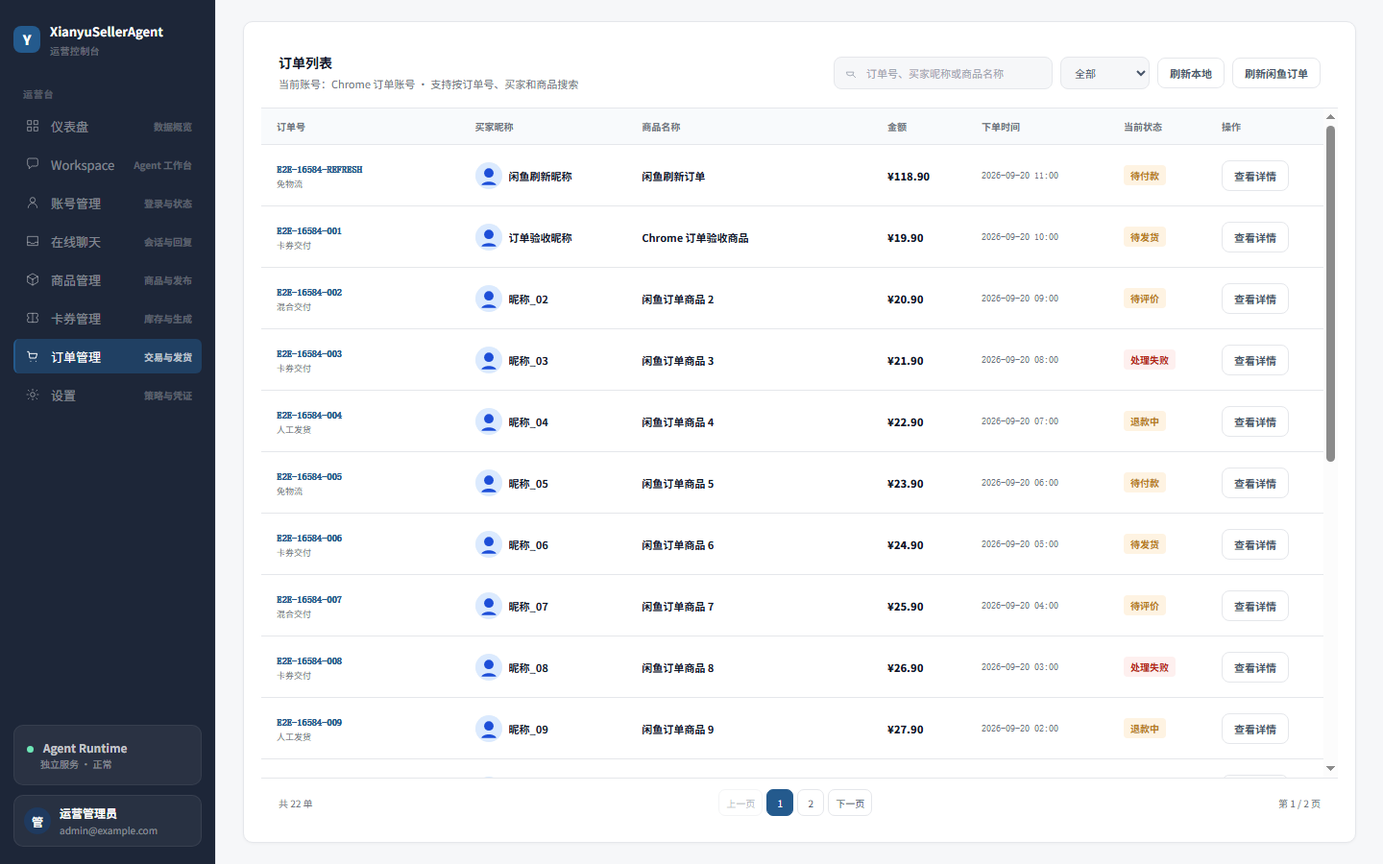
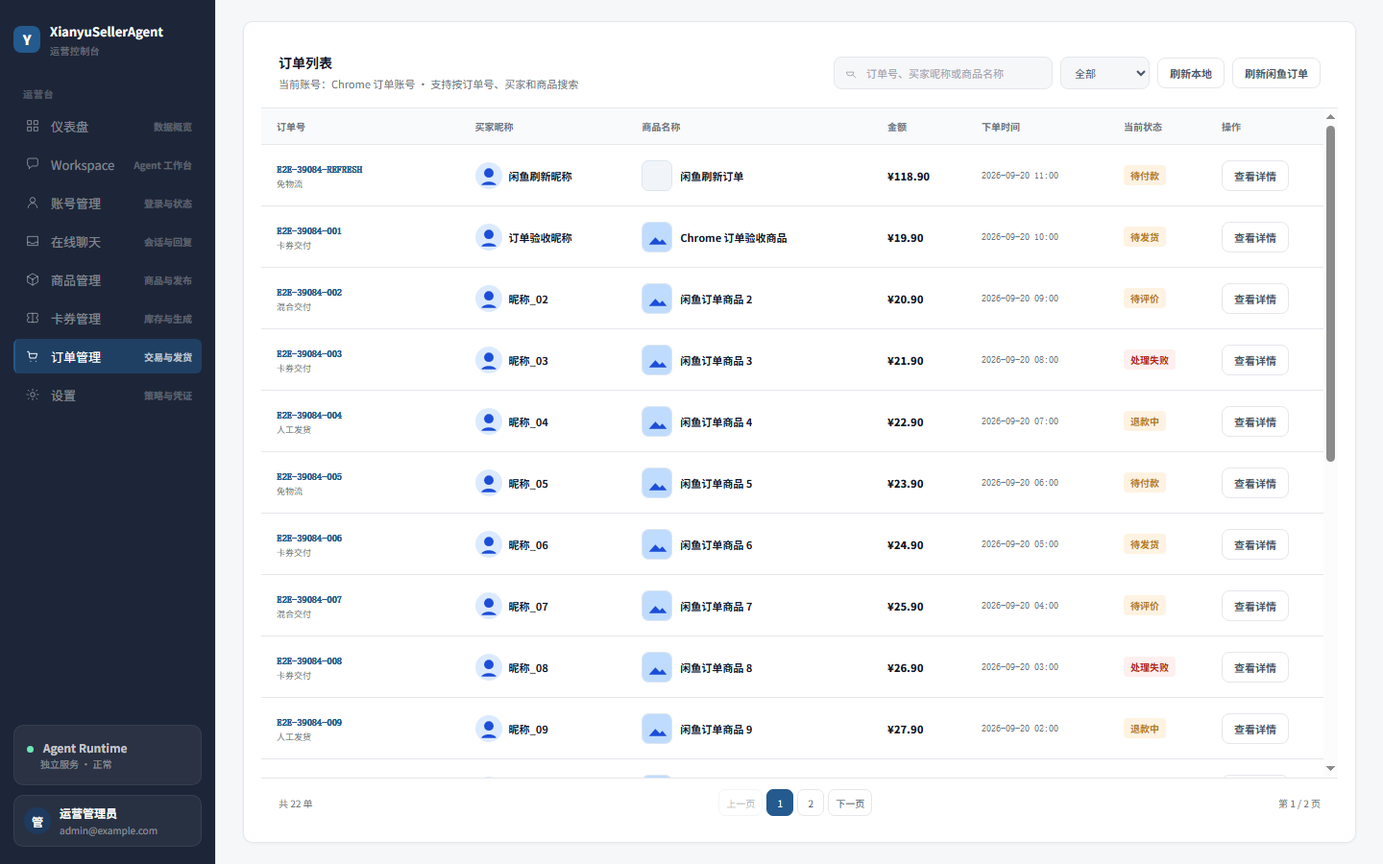
fix(订单): 聚合商品信息并修正筛选展示
补齐昵称、商品标题与缩略图的本地聚合，商品缺失时提示商品已删除，修复待发货与待评价的 canonical 状态组合，并保留详情抽屉与姓名悬浮提示。同步订单阶段状态、评审与风险记录。

受控例外：按用户明确授权直接在 master 完成订单切片收尾；未改动详情抽屉内容。

diff --git a/apps/api/src/store-postgres.ts b/apps/api/src/store-postgres.ts
@@ -95,11 +95,14 @@ export class PostgresStore implements Store {
     const page = query.page ?? 1;
     const pageSize = query.pageSize ?? 20;
     const params: unknown[] = [adminId];
-    const productJoin = `left join lateral (select p.title from products.products p where p.account_id=o.account_id and (p.id::text=o.product_id or p.external_product_ref=o.item_id) order by (p.id::text=o.product_id) desc limit 1) product on true`;
+    const productJoin = `left join lateral (select p.title, p.attributes_json from products.products p where p.account_id=o.account_id and (p.id::text=o.product_id or p.external_product_ref=o.item_id) order by (p.id::text=o.product_id) desc limit 1) product on true`;
     const buyerJoin = `left join lateral (select c.buyer_display_name, c.buyer_avatar_url from messages.conversations c where c.account_id=o.account_id and ((o.conversation_id is not null and c.id::text=o.conversation_id) or c.buyer_ref=o.buyer_id) order by (c.id::text=o.conversation_id) desc, c.updated_at desc nulls last limit 1) buyer_identity on true`;
+    const itemJoin = `left join lateral (select c.item_ref, c.item_title, c.item_image_url from messages.conversations c where c.account_id=o.account_id and ((o.conversation_id is not null and c.id::text=o.conversation_id) or c.item_ref=o.item_id) order by (c.item_title is not null and btrim(c.item_title)<>'') desc, (c.id::text=o.conversation_id) desc, (c.item_ref=o.item_id) desc, c.updated_at desc nulls last limit 1) item_identity on true`;
+    const buyerItemJoin = `left join lateral (select c.item_ref, c.item_title, c.item_image_url from messages.conversations c where c.account_id=o.account_id and c.buyer_ref=o.buyer_id order by (c.item_title is not null and btrim(c.item_title)<>'') desc, c.updated_at desc nulls last limit 1) buyer_item_identity on true`;
     const displayBuyerNickname = `coalesce(nullif(btrim(o.buyer_nickname), ''), nullif(btrim(buyer_identity.buyer_display_name), '')) as display_buyer_nickname`;
     const displayBuyerAvatar = `coalesce(nullif(btrim(o.buyer_avatar_url), ''), nullif(btrim(buyer_identity.buyer_avatar_url), '')) as display_buyer_avatar_url`;
-    const displayItemTitle = `case when product.title is not null and (o.item_title is null or btrim(o.item_title)='' or btrim(o.item_title)=btrim(o.item_id)) then product.title else o.item_title end as display_item_title`;
+    const displayItemTitle = `case when o.item_title is not null and btrim(o.item_title)<>'' and btrim(o.item_title)<>btrim(o.item_id) then o.item_title when product.title is not null and btrim(product.title)<>'' and btrim(product.title)<>btrim(o.item_id) then product.title when item_identity.item_title is not null and btrim(item_identity.item_title)<>'' and btrim(item_identity.item_title)<>btrim(o.item_id) and (item_identity.item_ref is null or btrim(item_identity.item_title)<>btrim(item_identity.item_ref)) then item_identity.item_title when buyer_item_identity.item_title is not null and btrim(buyer_item_identity.item_title)<>'' and btrim(buyer_item_identity.item_title)<>btrim(o.item_id) and (buyer_item_identity.item_ref is null or btrim(buyer_item_identity.item_title)<>btrim(buyer_item_identity.item_ref)) then buyer_item_identity.item_title else null end as display_item_title`;
+    const displayItemImage = `coalesce(nullif(btrim(item_identity.item_image_url), ''), nullif(btrim(buyer_item_identity.item_image_url), ''), nullif(product.attributes_json #>> '{xianyu,imageUrls,0}', ''), nullif(product.attributes_json #>> '{imageUrls,0}', '')) as display_item_image_url`;
     const conditions = ["EXISTS (SELECT 1 FROM auth.account_scopes scope WHERE scope.account_id=o.account_id AND scope.admin_id=$1 AND scope.status='active' AND (scope.expires_at IS NULL OR scope.expires_at>now()))"];
     const addParam = (value: unknown) => { params.push(value); return `$${params.length}`; };
     if (query.accountId) conditions.push(`o.account_id=${addParam(query.accountId)}`);
@@ -108,20 +111,20 @@ export class PostgresStore implements Store {
     if (query.deliveryStatus) conditions.push(`o.delivery_status=${addParam(query.deliveryStatus)}`);
     if (query.afterSalesStatus) conditions.push(`o.after_sales_status=${addParam(query.afterSalesStatus)}`);
     const keyword = query.keyword?.trim();
-    if (keyword) { const p = addParam(`%${keyword}%`); conditions.push(`(o.order_no ILIKE ${p} OR o.buyer_nickname ILIKE ${p} OR buyer_identity.buyer_display_name ILIKE ${p} OR (o.item_title IS NOT NULL AND btrim(o.item_title) <> '' AND btrim(o.item_title) <> btrim(o.item_id) AND o.item_title ILIKE ${p}) OR product.title ILIKE ${p})`); }
+    if (keyword) { const p = addParam(`%${keyword}%`); conditions.push(`(o.order_no ILIKE ${p} OR o.buyer_nickname ILIKE ${p} OR buyer_identity.buyer_display_name ILIKE ${p} OR (o.item_title IS NOT NULL AND btrim(o.item_title) <> '' AND btrim(o.item_title) <> btrim(o.item_id) AND o.item_title ILIKE ${p}) OR (product.title IS NOT NULL AND btrim(product.title) <> '' AND btrim(product.title) <> btrim(o.item_id) AND product.title ILIKE ${p}) OR (item_identity.item_title IS NOT NULL AND btrim(item_identity.item_title) <> '' AND btrim(item_identity.item_title) <> btrim(o.item_id) AND (item_identity.item_ref IS NULL OR btrim(item_identity.item_title) <> btrim(item_identity.item_ref)) AND item_identity.item_title ILIKE ${p}) OR (buyer_item_identity.item_title IS NOT NULL AND btrim(buyer_item_identity.item_title) <> '' AND btrim(buyer_item_identity.item_title) <> btrim(o.item_id) AND (buyer_item_identity.item_ref IS NULL OR btrim(buyer_item_identity.item_title) <> btrim(buyer_item_identity.item_ref)) AND buyer_item_identity.item_title ILIKE ${p}))`); }
     const where = conditions.join(' AND ');
-    const count = await this.pool.query(`select count(*)::int as total from orders.orders o ${productJoin} ${buyerJoin} where ${where}`, params);
+    const count = await this.pool.query(`select count(*)::int as total from orders.orders o ${productJoin} ${buyerJoin} ${itemJoin} ${buyerItemJoin} where ${where}`, params);
     const total = Number(count.rows[0]?.total ?? 0);
     const sortColumn = query.sortBy === 'amountMinor' ? 'o.amount_minor' : 'o.created_at';
     const sortOrder = query.sortOrder === 'asc' ? 'ASC' : 'DESC';
-    const rows = await this.pool.query(`select o.*, ${displayBuyerNickname}, ${displayBuyerAvatar}, ${displayItemTitle} from orders.orders o ${productJoin} ${buyerJoin} where ${where} order by ${sortColumn} ${sortOrder}, o.order_no limit $${params.length + 1} offset $${params.length + 2}`, [...params, pageSize, (page - 1) * pageSize]);
+    const rows = await this.pool.query(`select o.*, ${displayBuyerNickname}, ${displayBuyerAvatar}, ${displayItemTitle}, ${displayItemImage} from orders.orders o ${productJoin} ${buyerJoin} ${itemJoin} ${buyerItemJoin} where ${where} order by ${sortColumn} ${sortOrder}, o.order_no limit $${params.length + 1} offset $${params.length + 2}`, [...params, pageSize, (page - 1) * pageSize]);
     return { items: rows.rows.map((row) => this.toOrder(row)), page, pageSize, total, totalPages: Math.max(1, Math.ceil(total / pageSize)) };
   }
   async getOrder(adminId: string, orderNo: string, accountId?: string): Promise<OrderRecord | undefined> {
     const params: unknown[] = [orderNo, adminId];
     const accountClause = accountId ? ` and o.account_id=$3` : '';
     if (accountId) params.push(accountId);
-    const result = await this.pool.query(`select o.*, coalesce(nullif(btrim(o.buyer_nickname), ''), nullif(btrim(buyer_identity.buyer_display_name), '')) as display_buyer_nickname, coalesce(nullif(btrim(o.buyer_avatar_url), ''), nullif(btrim(buyer_identity.buyer_avatar_url), '')) as display_buyer_avatar_url, case when product.title is not null and (o.item_title is null or btrim(o.item_title)='' or btrim(o.item_title)=btrim(o.item_id)) then product.title else o.item_title end as display_item_title from orders.orders o left join lateral (select p.title from products.products p where p.account_id=o.account_id and (p.id::text=o.product_id or p.external_product_ref=o.item_id) order by (p.id::text=o.product_id) desc limit 1) product on true left join lateral (select c.buyer_display_name, c.buyer_avatar_url from messages.conversations c where c.account_id=o.account_id and ((o.conversation_id is not null and c.id::text=o.conversation_id) or c.buyer_ref=o.buyer_id) order by (c.id::text=o.conversation_id) desc, c.updated_at desc nulls last limit 1) buyer_identity on true where o.order_no=$1${accountClause} and exists (select 1 from auth.account_scopes scope where scope.account_id=o.account_id and scope.admin_id=$2 and scope.status='active' and (scope.expires_at is null or scope.expires_at>now())) limit 1`, params);
+    const result = await this.pool.query(`select o.*, coalesce(nullif(btrim(o.buyer_nickname), ''), nullif(btrim(buyer_identity.buyer_display_name), '')) as display_buyer_nickname, coalesce(nullif(btrim(o.buyer_avatar_url), ''), nullif(btrim(buyer_identity.buyer_avatar_url), '')) as display_buyer_avatar_url, case when o.item_title is not null and btrim(o.item_title)<>'' and btrim(o.item_title)<>btrim(o.item_id) then o.item_title when product.title is not null and btrim(product.title)<>'' and btrim(product.title)<>btrim(o.item_id) then product.title when item_identity.item_title is not null and btrim(item_identity.item_title)<>'' and btrim(item_identity.item_title)<>btrim(o.item_id) and (item_identity.item_ref is null or btrim(item_identity.item_title)<>btrim(item_identity.item_ref)) then item_identity.item_title when buyer_item_identity.item_title is not null and btrim(buyer_item_identity.item_title)<>'' and btrim(buyer_item_identity.item_title)<>btrim(o.item_id) and (buyer_item_identity.item_ref is null or btrim(buyer_item_identity.item_title)<>btrim(buyer_item_identity.item_ref)) then buyer_item_identity.item_title else null end as display_item_title, coalesce(nullif(btrim(item_identity.item_image_url), ''), nullif(btrim(buyer_item_identity.item_image_url), ''), nullif(product.attributes_json #>> '{xianyu,imageUrls,0}', ''), nullif(product.attributes_json #>> '{imageUrls,0}', '')) as display_item_image_url from orders.orders o left join lateral (select p.title, p.attributes_json from products.products p where p.account_id=o.account_id and (p.id::text=o.product_id or p.external_product_ref=o.item_id) order by (p.id::text=o.product_id) desc limit 1) product on true left join lateral (select c.buyer_display_name, c.buyer_avatar_url from messages.conversations c where c.account_id=o.account_id and ((o.conversation_id is not null and c.id::text=o.conversation_id) or c.buyer_ref=o.buyer_id) order by (c.id::text=o.conversation_id) desc, c.updated_at desc nulls last limit 1) buyer_identity on true left join lateral (select c.item_ref, c.item_title, c.item_image_url from messages.conversations c where c.account_id=o.account_id and ((o.conversation_id is not null and c.id::text=o.conversation_id) or c.item_ref=o.item_id) order by (c.item_title is not null and btrim(c.item_title)<>'') desc, (c.id::text=o.conversation_id) desc, (c.item_ref=o.item_id) desc, c.updated_at desc nulls last limit 1) item_identity on true left join lateral (select c.item_ref, c.item_title, c.item_image_url from messages.conversations c where c.account_id=o.account_id and c.buyer_ref=o.buyer_id order by (c.item_title is not null and btrim(c.item_title)<>'') desc, c.updated_at desc nulls last limit 1) buyer_item_identity on true where o.order_no=$1${accountClause} and exists (select 1 from auth.account_scopes scope where scope.account_id=o.account_id and scope.admin_id=$2 and scope.status='active' and (scope.expires_at is null or scope.expires_at>now())) limit 1`, params);
     return result.rows[0] ? this.toOrder(result.rows[0]) : undefined;
   }
   async createOrder(input: { adminId: string; order: Omit<OrderRecord, 'id' | 'createdAt' | 'updatedAt' | 'configVersion' | 'source'> & { id?: string; createdAt?: string; updatedAt?: string; configVersion?: number; source?: OrderSource } }): Promise<OrderRecord> {
@@ -729,6 +732,7 @@ export class PostgresStore implements Store {
       buyerAvatarUrl: row.display_buyer_avatar_url ? String(row.display_buyer_avatar_url) : row.buyer_avatar_url ? String(row.buyer_avatar_url) : undefined,
       itemId: String(row.item_id ?? ''),
       itemTitle: (() => { const itemId = String(row.item_id ?? ''); const title = String(row.display_item_title ?? row.item_title ?? ''); return title.trim() && title.trim() !== itemId.trim() ? title : ''; })(),
+      itemImageUrl: row.display_item_image_url ? String(row.display_item_image_url) : undefined,
       amountMinor: Number(row.amount_minor ?? 0),
       paymentStatus: row.payment_status as OrderRecord['paymentStatus'],
       orderStatus: row.order_status as OrderRecord['orderStatus'],

diff --git a/apps/web/src/features/orders/api.ts b/apps/web/src/features/orders/api.ts
@@ -41,6 +41,20 @@ function parsePage(payload: OrdersEnvelope, fallback: OrderFilters): { items: un
 }
 
 function asStatus<T extends string>(value: unknown, allowed: readonly T[], fallback: T): T { return typeof value === 'string' && allowed.includes(value as T) ? value as T : fallback; }
+function firstNonBlankString(...values: unknown[]): string | undefined {
+  for (const value of values) {
+    if (typeof value === 'string' && value.trim()) return value.trim();
+  }
+  return undefined;
+}
+function nestedItemTitle(item: Record<string, unknown>): string | undefined {
+  const nested = ['item', 'product', 'goods', 'auction', 'itemInfo', 'item_info'].map((key) => asObject(item[key]));
+  return firstNonBlankString(...nested.flatMap((value) => [value.displayItemTitle, value.display_item_title, value.itemTitle, value.item_title, value.itemName, value.item_name, value.productName, value.product_name, value.goodsTitle, value.goods_title, value.productTitle, value.product_title, value.auctionTitle, value.auction_title, value.title, value.name]));
+}
+function nestedItemImageUrl(item: Record<string, unknown>): string | undefined {
+  const nested = ['item', 'product', 'goods', 'auction', 'itemInfo', 'item_info'].map((key) => asObject(item[key]));
+  return firstNonBlankString(...nested.flatMap((value) => [value.itemImageUrl, value.item_image_url, value.imageUrl, value.image_url, value.picUrl, value.pic_url, value.mainImageUrl, value.main_image_url]));
+}
 function mapOrder(raw: unknown, fallbackAccountId?: string): OrderVM {
   const item = asObject(raw);
   const orderNo = String(item.orderNo ?? item.order_no ?? item.orderId ?? item.order_id ?? '');
@@ -53,8 +67,9 @@ function mapOrder(raw: unknown, fallbackAccountId?: string): OrderVM {
   const rawBuyerAvatarUrl = item.buyerAvatarUrl ?? item.buyer_avatar_url ?? item.buyerAvatar ?? item.buyer_avatar ?? item.avatarUrl ?? item.avatar_url ?? item.headPic ?? item.head_pic;
   const buyerAvatarUrl = typeof rawBuyerAvatarUrl === 'string' && rawBuyerAvatarUrl.trim() ? rawBuyerAvatarUrl.trim() : undefined;
   const itemId = String(item.itemId ?? item.item_id ?? '');
-  const rawItemTitle = item.itemTitle ?? item.item_title ?? item.itemName ?? item.item_name ?? item.goodsTitle ?? item.goods_title ?? item.productTitle ?? item.product_title ?? item.title;
-  const itemTitle = typeof rawItemTitle === 'string' && rawItemTitle.trim() && rawItemTitle.trim() !== itemId.trim() ? rawItemTitle.trim() : '';
+  const rawItemTitle = firstNonBlankString(item.displayItemTitle, item.display_item_title, item.itemTitle, item.item_title, item.itemName, item.item_name, item.productName, item.product_name, item.goodsTitle, item.goods_title, item.productTitle, item.product_title, item.auctionTitle, item.auction_title, item.title, nestedItemTitle(item));
+  const itemTitle = rawItemTitle && rawItemTitle !== itemId.trim() ? rawItemTitle : '';
+  const itemImageUrl = firstNonBlankString(item.itemImageUrl, item.item_image_url, item.itemImage, item.item_image, item.imageUrl, item.image_url, item.picUrl, item.pic_url, item.mainImageUrl, item.main_image_url, nestedItemImageUrl(item));
   return {
     orderNo,
     accountId: String(item.accountId ?? item.account_id ?? item.cookieId ?? item.cookie_id ?? fallbackAccountId ?? ''),
@@ -65,6 +80,7 @@ function mapOrder(raw: unknown, fallbackAccountId?: string): OrderVM {
     buyerAvatarUrl,
     itemId,
     itemTitle,
+    itemImageUrl,
     amountMinor: hasMinorAmount ? amount : Math.round(amount * 100),
     paymentStatus: asStatus(item.paymentStatus ?? item.payment_status, paymentStatuses, 'unknown'),
     orderStatus: asStatus(item.orderStatus ?? item.order_status, orderStatuses, 'open'),

diff --git a/apps/web/src/features/orders/components/OrderTable.tsx b/apps/web/src/features/orders/components/OrderTable.tsx
@@ -11,12 +11,14 @@ export function OrderTable({ orders, page, totalPages, total, onPageChange, onOp
         {orders.map((order) => {
           const buyerNickname = order.buyerNickname?.trim() ?? '';
           const buyerName = order.buyerName?.trim() ?? '';
-          const buyerAvatarUrl = (order as OrderVM & { buyerAvatarUrl?: string }).buyerAvatarUrl?.trim() ?? '';
+          const buyerAvatarUrl = normalizeImageUrl(order.buyerAvatarUrl);
           const itemTitle = order.itemTitle?.trim() && order.itemTitle.trim() !== order.itemId.trim() ? order.itemTitle.trim() : '';
+          const itemUnavailable = !itemTitle;
+          const itemImageUrl = normalizeImageUrl(order.itemImageUrl);
           return <div className="orders-row" role="row" key={order.orderNo} data-order-no={order.orderNo}>
           <button className="orders-order-link" type="button" onClick={() => onOpen(order.orderNo)}><strong>{order.orderNo}</strong><small>{order.deliveryType === 'coupon_only' ? '卡券交付' : order.deliveryType === 'no_logistics' ? '免物流' : order.deliveryType === 'mixed' ? '混合交付' : '人工发货'}</small></button>
-          <div className="orders-buyer"><span className="orders-avatar">{buyerAvatarUrl ? <img src={buyerAvatarUrl} alt="" /> : null}</span><span title={`买家姓名：${buyerName}`} aria-label={`买家昵称，悬浮查看买家姓名：${buyerName}`}><strong>{buyerNickname}</strong></span></div>
-          <div className="orders-product"><strong>{itemTitle}</strong></div>
+          <div className="orders-buyer"><span className="orders-avatar">{buyerAvatarUrl ? <img src={buyerAvatarUrl} alt="" onError={(event) => { event.currentTarget.style.display = 'none'; }} /> : null}</span><span title={`买家姓名：${buyerName}`} aria-label={`买家昵称，悬浮查看买家姓名：${buyerName}`}><strong>{buyerNickname}</strong></span></div>
+          <div className="orders-product" title={itemUnavailable ? '商品已删除或暂无本地商品信息' : itemTitle}><span className="orders-product-thumb">{itemImageUrl ? <img src={itemImageUrl} alt="" onError={(event) => { event.currentTarget.style.display = 'none'; }} /> : null}</span><strong className={itemUnavailable ? 'orders-product-missing' : undefined}>{itemUnavailable ? '商品已删除' : itemTitle}</strong></div>
           <span className="orders-amount">¥{(order.amountMinor / 100).toFixed(2)}</span>
           <time className="orders-time" dateTime={order.createdAt}>{formatOrderDate(order.createdAt)}</time>
           {(() => { const status = getOrderDisplayStatus(order); return <StatusPill tone={orderDisplayStatusTone(status)}>{orderDisplayStatusLabel(status)}</StatusPill>; })()}
@@ -30,4 +32,9 @@ export function OrderTable({ orders, page, totalPages, total, onPageChange, onOp
 }
 
 function StatusPill({ tone, children }: { tone: 'success' | 'warn' | 'danger' | 'neutral' | 'info'; children: string }) { return <b className={`orders-status orders-status-${tone}`}>{children}</b>; }
+function normalizeImageUrl(value?: string): string | undefined {
+  const normalized = value?.trim();
+  if (!normalized) return undefined;
+  return normalized.startsWith('//') ? `https:${normalized}` : normalized;
+}
 function getPageItems(page: number, totalPages: number): Array<number | 'ellipsis'> { if (totalPages <= 5) return Array.from({ length: totalPages }, (_, index) => index + 1); if (page <= 3) return [1, 2, 3, 4, 'ellipsis', totalPages]; if (page >= totalPages - 2) return [1, 'ellipsis', totalPages - 3, totalPages - 2, totalPages - 1, totalPages]; return [1, 'ellipsis', page - 1, page, page + 1, 'ellipsis', totalPages]; }

diff --git a/apps/web/src/features/orders/api.test.ts b/apps/web/src/features/orders/api.test.ts
@@ -7,7 +7,7 @@ describe('orders api', () => {
     const api = createOrdersApi({
       get: async <T>(path: string) => {
         calls.push(path);
-        return { items: [{ orderNo: 'O-1', accountId: 'A', buyerId: 'B', buyerNickname: '买家昵称', buyerName: '买家姓名', itemId: 'I', itemTitle: '商品标题', amountMinor: 1990, paymentStatus: 'paid', orderStatus: 'completed', deliveryStatus: 'delivered', afterSalesStatus: 'none', createdAt: '2026-09-20T09:00:00Z', configVersion: 1 }] } as T;
+        return { items: [{ orderNo: 'O-1', accountId: 'A', buyerId: 'B', buyerNickname: '买家昵称', buyerName: '买家姓名', itemId: 'I', itemTitle: '商品标题', itemImageUrl: 'https://img.example/product.png', amountMinor: 1990, paymentStatus: 'paid', orderStatus: 'completed', deliveryStatus: 'delivered', afterSalesStatus: 'none', createdAt: '2026-09-20T09:00:00Z', configVersion: 1 }] } as T;
       },
       post: async <T>() => undefined as T,
     });
@@ -18,7 +18,7 @@ describe('orders api', () => {
     expect(calls[0]).toContain('orderStatus=completed');
     expect(calls[0]).toContain('deliveryStatus=delivered');
     expect(calls[0]).toContain('afterSalesStatus=none');
-    expect(page.items[0]).toMatchObject({ paymentStatus: 'paid', orderStatus: 'completed', deliveryStatus: 'delivered', afterSalesStatus: 'none', amountMinor: 1990, buyerNickname: '买家昵称', buyerName: '买家姓名', itemTitle: '商品标题' });
+    expect(page.items[0]).toMatchObject({ paymentStatus: 'paid', orderStatus: 'completed', deliveryStatus: 'delivered', afterSalesStatus: 'none', amountMinor: 1990, buyerNickname: '买家昵称', buyerName: '买家姓名', itemTitle: '商品标题', itemImageUrl: 'https://img.example/product.png' });
   });
 
   it('does not expose an item id as the product title when the backend has no title', async () => {
@@ -28,6 +28,19 @@ describe('orders api', () => {
     });
     const page = await api.list({ accountId: 'A', page: 1, pageSize: 20 });
     expect(page.items[0]?.itemTitle).toBe('');
+  });
+
+  it('maps aliased and nested product titles while still hiding ids', async () => {
+    const api = createOrdersApi({
+      get: async <T>() => ({ items: [
+        { orderNo: 'O-3', accountId: 'A', buyerId: 'B', itemId: 'ITEM-3', display_item_title: '会话聚合商品', amountMinor: 100, paymentStatus: 'paid', orderStatus: 'open', deliveryStatus: 'pending', afterSalesStatus: 'none', createdAt: '2026-09-20T09:00:00Z', configVersion: 1 },
+        { orderNo: 'O-4', accountId: 'A', buyerId: 'B', itemId: 'ITEM-4', product: { title: '嵌套商品标题' }, amountMinor: 100, paymentStatus: 'paid', orderStatus: 'open', deliveryStatus: 'pending', afterSalesStatus: 'none', createdAt: '2026-09-20T09:00:00Z', configVersion: 1 },
+        { orderNo: 'O-5', accountId: 'A', buyerId: 'B', itemId: 'ITEM-5', productName: 'ITEM-5', amountMinor: 100, paymentStatus: 'paid', orderStatus: 'open', deliveryStatus: 'pending', afterSalesStatus: 'none', createdAt: '2026-09-20T09:00:00Z', configVersion: 1 },
+      ] } as T),
+      post: async <T>() => undefined as T,
+    });
+    const page = await api.list({ accountId: 'A', page: 1, pageSize: 20 });
+    expect(page.items.map((item) => item.itemTitle)).toEqual(['会话聚合商品', '嵌套商品标题', '']);
   });
 
   it('filters mock orders by account and keyword without mutating fixtures', async () => {

diff --git a/apps/api/src/store-memory.ts b/apps/api/src/store-memory.ts
@@ -4,6 +4,23 @@ import { decodeConversationCursor, encodeConversationCursor, isAfterConversation
 import { decodeMessageHistoryCursor } from './message-history-cursor.js';
 import type { AgentSessionRecord, RunEventRecord, RunRecord, RunStatus, StepRecord, StepStatus, WorkspaceMessageRecord, WorkspaceMessageType } from './domain.js';
 
+function meaningfulOrderTitle(value: string | undefined, references: Array<string | undefined>): string | undefined {
+  const title = value?.trim();
+  if (!title) return undefined;
+  const normalizedReferences = references.map((reference) => reference?.trim()).filter(Boolean);
+  return normalizedReferences.some((reference) => reference === title) ? undefined : title;
+}
+function firstImageUrl(value: unknown): string | undefined {
+  if (typeof value === 'string' && value.trim()) return value.trim();
+  if (Array.isArray(value)) return value.map((item) => firstImageUrl(item)).find(Boolean);
+  return undefined;
+}
+function productImageUrl(product: ProductRecord | undefined): string | undefined {
+  const attributes = product?.attributes ?? {};
+  const xianyu = attributes.xianyu && typeof attributes.xianyu === 'object' && !Array.isArray(attributes.xianyu) ? attributes.xianyu as Record<string, unknown> : {};
+  return firstImageUrl(xianyu.imageUrls) ?? firstImageUrl(xianyu.imageUrl) ?? firstImageUrl(attributes.imageUrls) ?? firstImageUrl(attributes.imageUrl);
+}
+
 function conversationSortKey(conversation: ConversationRecord): string { return conversation.lastMessageAt ?? conversation.updatedAt; }
 
 export class MemoryStore implements Store {
@@ -785,10 +802,18 @@ export class MemoryStore implements Store {
     const scopedConversation = conversation?.accountId === order.accountId ? conversation : undefined;
     const matchedConversation = scopedConversation
       ?? [...this.conversations.values()].find((candidate) => candidate.accountId === order.accountId && candidate.buyerRef === order.buyerId);
-    const itemTitle = (!order.itemTitle.trim() || order.itemTitle.trim() === order.itemId.trim()) ? (matchedProduct?.title ?? '') : order.itemTitle;
+    const matchedItemConversation = [...this.conversations.values()].find((candidate) => candidate.accountId === order.accountId && candidate.itemRef === order.itemId && Boolean(candidate.itemTitle?.trim()));
+    const itemTitle = meaningfulOrderTitle(order.itemTitle, [order.itemId])
+      ?? meaningfulOrderTitle(matchedProduct?.title, [order.itemId, matchedProduct?.externalProductRef])
+      ?? meaningfulOrderTitle(matchedItemConversation?.itemTitle, [order.itemId, matchedItemConversation?.itemRef])
+      ?? meaningfulOrderTitle(matchedConversation?.itemTitle, [order.itemId, matchedConversation?.itemRef])
+      ?? '';
+    const itemImageUrl = matchedItemConversation?.itemImageUrl?.trim()
+      || matchedConversation?.itemImageUrl?.trim()
+      || productImageUrl(matchedProduct);
     const buyerNickname = order.buyerNickname?.trim() || matchedConversation?.buyerDisplayName?.trim() || undefined;
     const buyerAvatarUrl = order.buyerAvatarUrl?.trim() || matchedConversation?.buyerAvatarUrl?.trim() || undefined;
-    return { ...order, buyerNickname, buyerAvatarUrl, itemTitle };
+    return { ...order, buyerNickname, buyerAvatarUrl, itemTitle, itemImageUrl };
   }
 
   private productDetail(product: ProductRecord): ProductRecord {

diff --git a/apps/web/src/features/orders/order-status.ts b/apps/web/src/features/orders/order-status.ts
@@ -20,28 +20,28 @@ export function filtersForStatus(value: OrderListStatusFilter): Partial<OrderFil
     afterSalesStatus: 'all',
   };
   if (value === 'pending_payment') return { ...base, paymentStatus: 'unpaid' };
-  if (value === 'pending_delivery') return { ...base, deliveryStatus: 'pending' };
-  if (value === 'pending_receipt') return { ...base, orderStatus: 'open', deliveryStatus: 'delivered' };
-  if (value === 'pending_review') return { ...base, orderStatus: 'completed', deliveryStatus: 'delivered' };
+  if (value === 'pending_delivery') return { ...base, paymentStatus: 'paid', deliveryStatus: 'pending' };
+  if (value === 'pending_receipt') return { ...base, paymentStatus: 'paid', orderStatus: 'open', deliveryStatus: 'delivered' };
+  if (value === 'pending_review') return { ...base, paymentStatus: 'paid', orderStatus: 'completed', deliveryStatus: 'delivered', afterSalesStatus: 'none' };
   if (value === 'refunding') return { ...base, afterSalesStatus: 'refunding' };
   return base;
 }
 
 export function statusFilterFromFilters(filters: Pick<OrderFilters, 'paymentStatus' | 'orderStatus' | 'deliveryStatus' | 'afterSalesStatus'>): OrderListStatusFilter {
   if (filters.paymentStatus === 'unpaid') return 'pending_payment';
-  if (filters.deliveryStatus === 'pending') return 'pending_delivery';
-  if (filters.deliveryStatus === 'delivered' && filters.orderStatus === 'open') return 'pending_receipt';
-  if (filters.orderStatus === 'completed') return 'pending_review';
   if (filters.afterSalesStatus === 'refunding') return 'refunding';
+  if (filters.paymentStatus === 'paid' && filters.deliveryStatus === 'pending') return 'pending_delivery';
+  if (filters.paymentStatus === 'paid' && filters.deliveryStatus === 'delivered' && filters.orderStatus === 'open') return 'pending_receipt';
+  if (filters.paymentStatus === 'paid' && filters.orderStatus === 'completed' && filters.deliveryStatus === 'delivered' && filters.afterSalesStatus === 'none') return 'pending_review';
   return 'all';
 }
 
 export function getOrderDisplayStatus(order: Pick<OrderVM, 'paymentStatus' | 'orderStatus' | 'deliveryStatus' | 'afterSalesStatus'>): OrderDisplayStatus {
   if (order.paymentStatus === 'unpaid') return 'pending_payment';
   if (order.afterSalesStatus === 'refunding') return 'refunding';
-  if (order.deliveryStatus === 'pending') return 'pending_delivery';
-  if (order.deliveryStatus === 'delivered' && order.orderStatus === 'open') return 'pending_receipt';
-  if (order.deliveryStatus === 'delivered' && order.orderStatus === 'completed') return 'pending_review';
+  if (order.paymentStatus === 'paid' && order.deliveryStatus === 'pending') return 'pending_delivery';
+  if (order.paymentStatus === 'paid' && order.deliveryStatus === 'delivered' && order.orderStatus === 'open') return 'pending_receipt';
+  if (order.paymentStatus === 'paid' && order.deliveryStatus === 'delivered' && order.orderStatus === 'completed' && order.afterSalesStatus === 'none') return 'pending_review';
   if (order.deliveryStatus === 'failed' || order.orderStatus === 'failed') return 'failed';
   if (order.orderStatus === 'completed') return 'completed';
   if (order.orderStatus === 'closed' || order.orderStatus === 'cancelled') return 'closed';

diff --git a/apps/api/src/xianyu-order-mapper.ts b/apps/api/src/xianyu-order-mapper.ts
@@ -43,6 +43,7 @@ export function mapXianyuOrder(value: unknown): XianyuOrderItem | undefined {
   const buyerName = firstString(raw.buyerName, raw.buyer_name, raw.buyerRealName, raw.buyer_real_name, raw.receiverName, raw.receiver_name, buyer.realName, buyer.receiverName, buyer.name, buyerInfo.realName, buyerInfo.receiverName, buyerInfo.name) ?? '';
   const itemId = firstString(raw.itemId, raw.item_id, raw.auctionId, raw.auction_id, raw.commodityId, raw.commodity_id, item.id, itemInfo.itemId, itemInfo.item_id, itemInfo.id) ?? 'unknown-item';
   const itemTitle = firstString(raw.itemTitle, raw.item_title, raw.itemName, raw.item_name, raw.goodsTitle, raw.goods_title, raw.productTitle, raw.product_title, raw.title, raw.auctionTitle, raw.auction_title, item.title, item.itemTitle, item.itemName, item.name, item.goodsTitle, item.productTitle, item.auctionTitle, itemInfo.title, itemInfo.itemTitle, itemInfo.itemName, itemInfo.name, itemInfo.goodsTitle, itemInfo.productTitle, itemInfo.auctionTitle) ?? '';
+  const itemImageUrl = firstString(raw.itemImageUrl, raw.item_image_url, raw.itemImage, raw.item_image, raw.imageUrl, raw.image_url, raw.picUrl, raw.pic_url, raw.mainImageUrl, raw.main_image_url, item.imageUrl, item.image_url, item.picUrl, item.pic_url, item.mainImageUrl, item.main_image_url, itemInfo.imageUrl, itemInfo.image_url, itemInfo.picUrl, itemInfo.pic_url, itemInfo.mainImageUrl, itemInfo.main_image_url);
   const amountMinor = parseAmountMinorFields(raw);
   const createdAt = parseDate(firstValue(raw.createdAt, raw.created_at, raw.placedAt, raw.placed_at, raw.createTime, raw.create_time, raw.orderTime, raw.order_time)) ?? new Date().toISOString();
   const updatedAt = parseDate(firstValue(raw.updatedAt, raw.updated_at, raw.updateTime, raw.update_time, raw.modifyTime, raw.modify_time)) ?? createdAt;
@@ -55,6 +56,7 @@ export function mapXianyuOrder(value: unknown): XianyuOrderItem | undefined {
     buyerAvatarUrl,
     itemId,
     itemTitle,
+    itemImageUrl,
     amountMinor,
     paymentStatus: mapPaymentStatus(firstString(raw.paymentStatus, raw.payment_status, raw.payStatus, raw.pay_status, raw.tradeStatus, raw.trade_status)),
     orderStatus: mapOrderStatus(statusValue),
@@ -95,6 +97,7 @@ function unwrapOrder(value: unknown): Record<string, unknown> {
       amount: firstString(priceInfo.totalPrice, priceInfo.confirmFee, priceInfo.auctionPrice),
       quantity: firstString(priceInfo.buyNum, priceInfo.quantity),
       itemTitle: firstString(commonData.itemTitle, commonData.itemName, commonData.goodsTitle, commonData.productTitle, commonData.title, root.itemTitle, root.itemName, root.goodsTitle, root.productTitle),
+      itemImageUrl: firstString(commonData.itemImageUrl, commonData.item_image_url, commonData.imageUrl, commonData.image_url, commonData.picUrl, commonData.pic_url, root.itemImageUrl, root.item_image_url, root.imageUrl, root.image_url, root.picUrl, root.pic_url),
       createdAt: firstValue(commonData.createTime, commonData.orderCreateTime, commonData.createdAt, root.createdAt),
       updatedAt: firstValue(commonData.updateTime, commonData.modifyTime, commonData.updatedAt, root.updatedAt),
       inRefund,

diff --git a/apps/web/src/features/orders/order-status.test.ts b/apps/web/src/features/orders/order-status.test.ts
@@ -4,16 +4,21 @@ import { filtersForStatus, getOrderDisplayStatus, orderDisplayStatusLabel, statu
 describe('order status presentation', () => {
   it('maps the single UI filter to existing canonical status fields', () => {
     expect(filtersForStatus('pending_payment')).toMatchObject({ paymentStatus: 'unpaid', orderStatus: 'all', deliveryStatus: 'all', afterSalesStatus: 'all' });
-    expect(filtersForStatus('pending_receipt')).toMatchObject({ paymentStatus: 'all', orderStatus: 'open', deliveryStatus: 'delivered', afterSalesStatus: 'all' });
-    expect(filtersForStatus('pending_review')).toMatchObject({ orderStatus: 'completed', deliveryStatus: 'delivered' });
+    expect(filtersForStatus('pending_delivery')).toMatchObject({ paymentStatus: 'paid', orderStatus: 'all', deliveryStatus: 'pending', afterSalesStatus: 'all' });
+    expect(filtersForStatus('pending_receipt')).toMatchObject({ paymentStatus: 'paid', orderStatus: 'open', deliveryStatus: 'delivered', afterSalesStatus: 'all' });
+    expect(filtersForStatus('pending_review')).toMatchObject({ paymentStatus: 'paid', orderStatus: 'completed', deliveryStatus: 'delivered', afterSalesStatus: 'none' });
     expect(filtersForStatus('refunding')).toMatchObject({ afterSalesStatus: 'refunding' });
     expect(statusFilterFromFilters({ paymentStatus: 'unpaid', orderStatus: 'all', deliveryStatus: 'all', afterSalesStatus: 'all' })).toBe('pending_payment');
+    expect(statusFilterFromFilters({ paymentStatus: 'paid', orderStatus: 'all', deliveryStatus: 'pending', afterSalesStatus: 'all' })).toBe('pending_delivery');
+    expect(statusFilterFromFilters({ paymentStatus: 'paid', orderStatus: 'completed', deliveryStatus: 'delivered', afterSalesStatus: 'none' })).toBe('pending_review');
   });
 
   it('derives the current display status without collapsing canonical fields', () => {
     expect(getOrderDisplayStatus({ paymentStatus: 'unpaid', orderStatus: 'open', deliveryStatus: 'pending', afterSalesStatus: 'none' })).toBe('pending_payment');
+    expect(getOrderDisplayStatus({ paymentStatus: 'paid', orderStatus: 'open', deliveryStatus: 'pending', afterSalesStatus: 'none' })).toBe('pending_delivery');
     expect(getOrderDisplayStatus({ paymentStatus: 'paid', orderStatus: 'open', deliveryStatus: 'delivered', afterSalesStatus: 'none' })).toBe('pending_receipt');
     expect(getOrderDisplayStatus({ paymentStatus: 'paid', orderStatus: 'completed', deliveryStatus: 'delivered', afterSalesStatus: 'none' })).toBe('pending_review');
+    expect(getOrderDisplayStatus({ paymentStatus: 'paid', orderStatus: 'completed', deliveryStatus: 'delivered', afterSalesStatus: 'refunded' })).not.toBe('pending_review');
     expect(orderDisplayStatusLabel('refunding')).toBe('退款中');
   });
 });

diff --git a/apps/web/src/features/orders/components/OrderTable.test.ts b/apps/web/src/features/orders/components/OrderTable.test.ts
@@ -5,7 +5,7 @@ import { OrderTable } from './OrderTable';
 import type { OrderVM } from '../types';
 
 const order = {
-  orderNo: 'O-1', accountId: 'A', buyerId: 'buyer-1', buyerNickname: '买家昵称', buyerName: '买家姓名', buyerAvatarUrl: 'https://img.example/avatar.png', itemId: 'I-1', itemTitle: '测试商品', amountMinor: 1990,
+  orderNo: 'O-1', accountId: 'A', buyerId: 'buyer-1', buyerNickname: '买家昵称', buyerName: '买家姓名', buyerAvatarUrl: 'https://img.example/avatar.png', itemId: 'I-1', itemTitle: '测试商品', itemImageUrl: 'https://img.example/product.png', amountMinor: 1990,
   paymentStatus: 'paid', orderStatus: 'open', deliveryStatus: 'delivered', afterSalesStatus: 'none', deliveryType: 'manual', createdAt: '2026-09-20T09:00:00Z', configVersion: 1,
 } as OrderVM & { buyerAvatarUrl?: string };
 
@@ -22,7 +22,7 @@ describe('OrderTable', () => {
     expect(html).toContain('查看详情');
     expect(html).toContain('title="买家姓名：买家姓名"');
     expect(html).toContain('<strong>买家昵称</strong>');
-    expect(html).toContain('<strong>测试商品</strong>');
+    expect(html).toContain('<span class="orders-product-thumb"><img src="https://img.example/product.png" alt=""/></span><strong>测试商品</strong>');
     expect(html).toContain('<span class="orders-avatar"><img src="https://img.example/avatar.png" alt=""/></span>');
     expect(html).not.toContain('<small>buyer-1</small>');
     expect(html).not.toContain('<small>I-1</small>');
@@ -35,7 +35,8 @@ describe('OrderTable', () => {
 
   it('does not substitute the buyer name or item id for missing display fields', () => {
     const html = renderToStaticMarkup(createElement(OrderTable, { orders: [{ ...order, buyerNickname: undefined, itemTitle: 'I-1' }], page: 1, totalPages: 1, total: 1, onPageChange: vi.fn(), onOpen: vi.fn() }));
-    expect(html).toContain('<strong></strong>');
+    expect(html).toContain('<strong class="orders-product-missing">商品已删除</strong>');
+    expect(html).toContain('title="商品已删除或暂无本地商品信息"');
     expect(html).not.toContain('<strong>买家姓名</strong>');
     expect(html).not.toContain('<strong>I-1</strong>');
     expect(html).not.toContain('<small>buyer-1</small>');

diff --git a/apps/web/src/features/orders/components/orders.css b/apps/web/src/features/orders/components/orders.css
@@ -25,10 +25,13 @@
 .orders-order-link strong{font-family:ui-monospace,SFMono-Regular,Menlo,monospace;font-size:10px}
 .orders-order-link:hover strong{text-decoration:underline}
 .orders-buyer{display:flex;align-items:center;gap:7px;min-width:0}
-.orders-avatar{width:28px;height:28px;display:grid;place-items:center;border-radius:50%;background:#E7EFF7;color:var(--link);font-size:11px;font-weight:800;flex:0 0 auto}
-.orders-avatar img{width:100%;height:100%;display:block;border-radius:50%;object-fit:cover}
+.orders-avatar{width:28px;height:28px;min-width:28px;min-height:28px;display:grid;place-items:center;overflow:hidden;aspect-ratio:1;border-radius:50%;background:#E7EFF7;color:var(--link);font-size:11px;font-weight:800;flex:0 0 auto}
+.orders-avatar img{display:block;width:28px;height:28px;max-width:none;max-height:none;border-radius:50%;object-fit:cover;object-position:center}
 .orders-buyer strong,.orders-product strong{display:block;overflow:hidden;text-overflow:ellipsis;white-space:nowrap;font-size:11px}
-.orders-product{min-width:0}
+.orders-product-missing{color:var(--sub);font-weight:500}
+.orders-product{display:flex;align-items:center;gap:8px;min-width:0}
+.orders-product-thumb{width:32px;height:32px;min-width:32px;min-height:32px;display:grid;place-items:center;overflow:hidden;aspect-ratio:1;border:1px solid #DCE6F0;border-radius:7px;background:#F1F5F9}
+.orders-product-thumb img{display:block;width:32px;height:32px;max-width:none;max-height:none;object-fit:cover;object-position:center}
 .orders-amount{font-weight:800;font-variant-numeric:tabular-nums;white-space:nowrap}
 .orders-time{font-family:ui-monospace,SFMono-Regular,Menlo,monospace;font-size:10px;color:var(--sub);white-space:nowrap}
 .orders-status{display:inline-flex;align-items:center;width:max-content;max-width:100%;padding:3px 7px;border-radius:4px;font-size:10px;font-weight:700;white-space:nowrap}

diff --git a/apps/api/src/domain.ts b/apps/api/src/domain.ts
@@ -174,6 +174,7 @@ export interface OrderRecord {
   buyerAvatarUrl?: string;
   itemId: string;
   itemTitle: string;
+  itemImageUrl?: string;
   amountMinor: number;
   paymentStatus: PaymentStatus;
   orderStatus: OrderStatus;
@@ -198,6 +199,7 @@ export interface XianyuOrderItem {
   buyerAvatarUrl?: string;
   itemId: string;
   itemTitle: string;
+  itemImageUrl?: string;
   amountMinor: number;
   paymentStatus: PaymentStatus;
   orderStatus: OrderStatus;

diff --git a/apps/web/src/features/orders/types.ts b/apps/web/src/features/orders/types.ts
@@ -13,6 +13,7 @@ export interface OrderVM {
   buyerAvatarUrl?: string;
   itemId: string;
   itemTitle: string;
+  itemImageUrl?: string;
   amountMinor: number;
   paymentStatus: PaymentStatus;
   orderStatus: OrderStatus;
